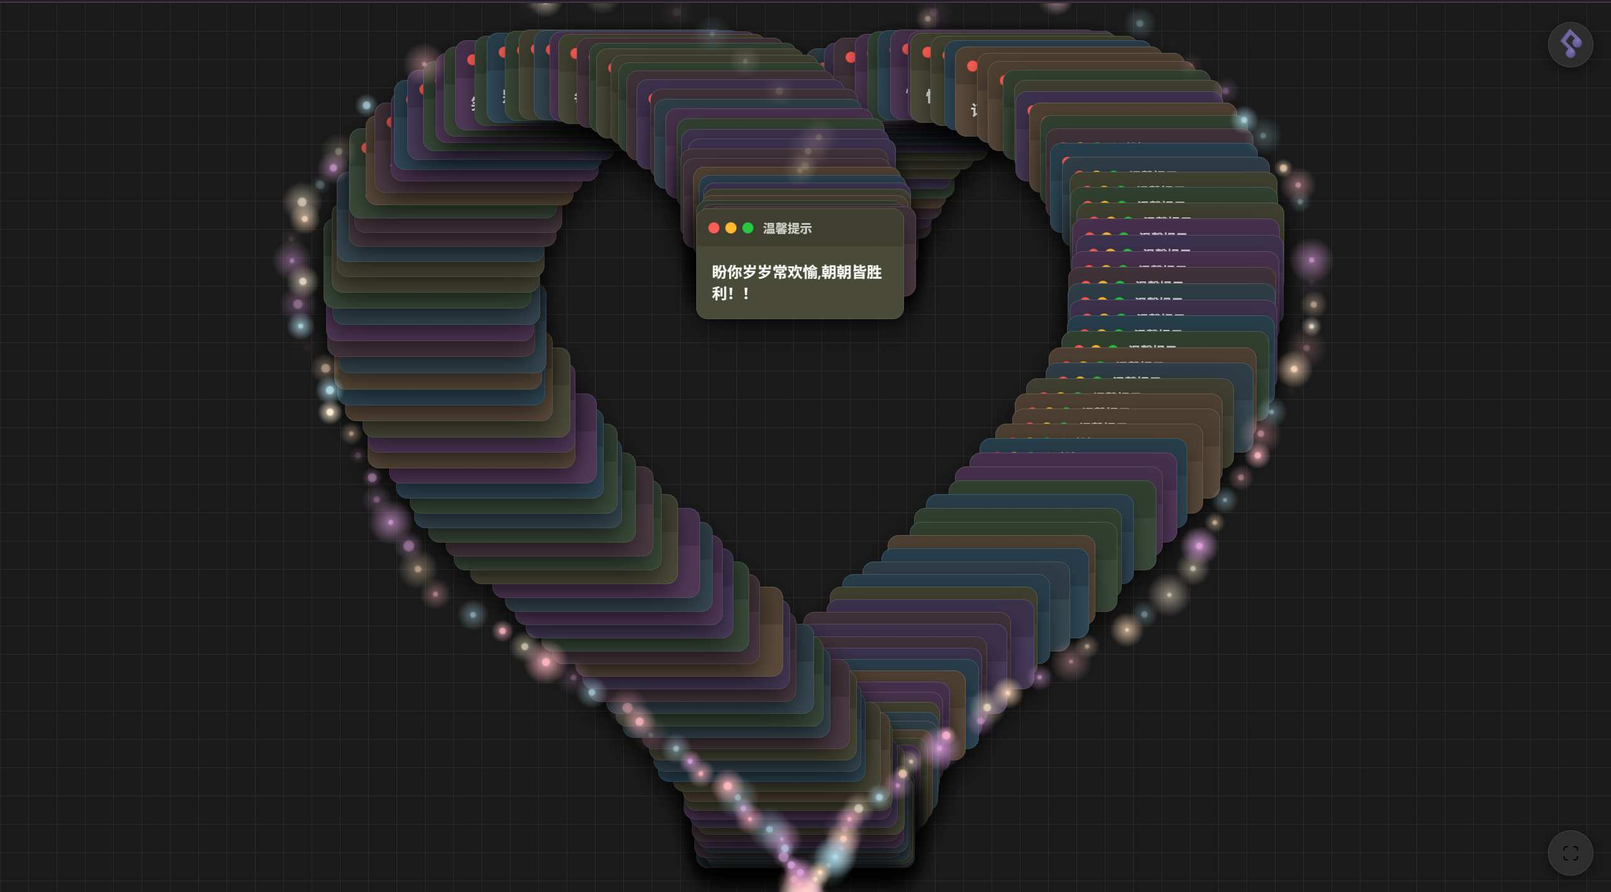
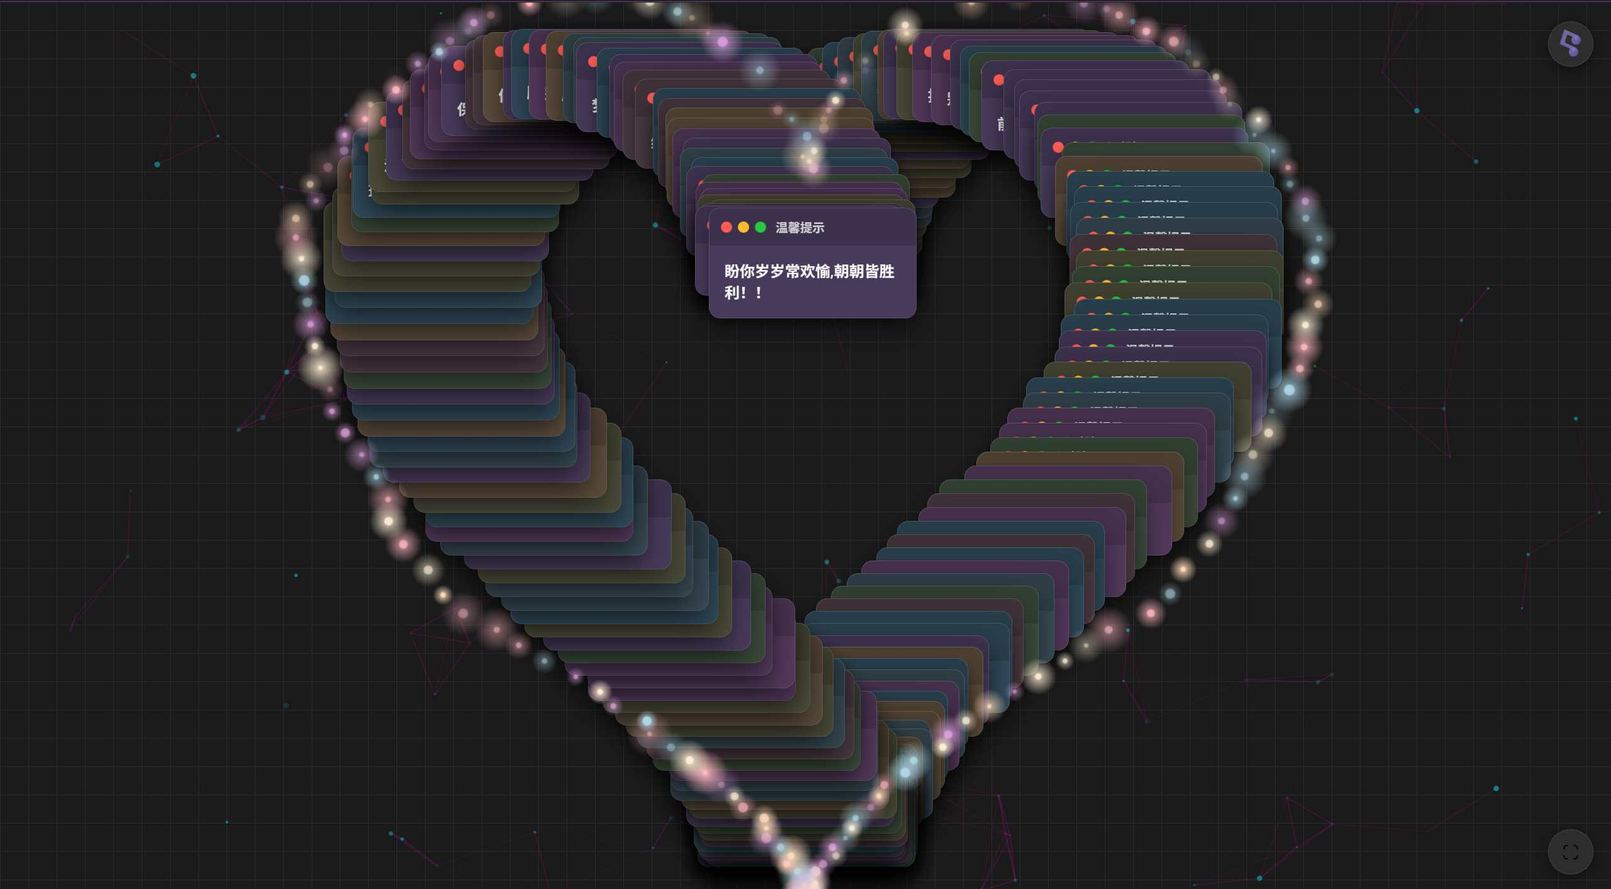
更新

Changed region(s): [[0.1544, 0.0, 0.8335, 1.0], [0.957, 0.0311, 0.9879, 0.0623]]

diff --git a/js/particles.min.js b/js/particles.min.js
@@ -1,0 +1,9 @@
+/* -----------------------------------------------
+/* Author : Vincent Garreau  - vincentgarreau.com
+/* MIT license: http://opensource.org/licenses/MIT
+/* Demo / Generator : vincentgarreau.com/particles.js
+/* GitHub : github.com/VincentGarreau/particles.js
+/* How to use? : Check the GitHub README
+/* v2.0.0
+/* ----------------------------------------------- */
+function hexToRgb(e){var a=/^#?([a-f\d])([a-f\d])([a-f\d])$/i;e=e.replace(a,function(e,a,t,i){return a+a+t+t+i+i});var t=/^#?([a-f\d]{2})([a-f\d]{2})([a-f\d]{2})$/i.exec(e);return t?{r:parseInt(t[1],16),g:parseInt(t[2],16),b:parseInt(t[3],16)}:null}function clamp(e,a,t){return Math.min(Math.max(e,a),t)}function isInArray(e,a){return a.indexOf(e)>-1}var pJS=function(e,a){var t=document.querySelector("#"+e+" > .particles-js-canvas-el");this.pJS={canvas:{el:t,w:t.offsetWidth,h:t.offsetHeight},particles:{number:{value:400,density:{enable:!0,value_area:800}},color:{value:"#fff"},shape:{type:"circle",stroke:{width:0,color:"#ff0000"},polygon:{nb_sides:5},image:{src:"",width:100,height:100}},opacity:{value:1,random:!1,anim:{enable:!1,speed:2,opacity_min:0,sync:!1}},size:{value:20,random:!1,anim:{enable:!1,speed:20,size_min:0,sync:!1}},line_linked:{enable:!0,distance:100,color:"#fff",opacity:1,width:1},move:{enable:!0,speed:2,direction:"none",random:!1,straight:!1,out_mode:"out",bounce:!1,attract:{enable:!1,rotateX:3e3,rotateY:3e3}},array:[]},interactivity:{detect_on:"canvas",events:{onhover:{enable:!0,mode:"grab"},onclick:{enable:!0,mode:"push"},resize:!0},modes:{grab:{distance:100,line_linked:{opacity:1}},bubble:{distance:200,size:80,duration:.4},repulse:{distance:200,duration:.4},push:{particles_nb:4},remove:{particles_nb:2}},mouse:{}},retina_detect:!1,fn:{interact:{},modes:{},vendors:{}},tmp:{}};var i=this.pJS;a&&Object.deepExtend(i,a),i.tmp.obj={size_value:i.particles.size.value,size_anim_speed:i.particles.size.anim.speed,move_speed:i.particles.move.speed,line_linked_distance:i.particles.line_linked.distance,line_linked_width:i.particles.line_linked.width,mode_grab_distance:i.interactivity.modes.grab.distance,mode_bubble_distance:i.interactivity.modes.bubble.distance,mode_bubble_size:i.interactivity.modes.bubble.size,mode_repulse_distance:i.interactivity.modes.repulse.distance},i.fn.retinaInit=function(){i.retina_detect&&window.devicePixelRatio>1?(i.canvas.pxratio=window.devicePixelRatio,i.tmp.retina=!0):(i.canvas.pxratio=1,i.tmp.retina=!1),i.canvas.w=i.canvas.el.offsetWidth*i.canvas.pxratio,i.canvas.h=i.canvas.el.offsetHeight*i.canvas.pxratio,i.particles.size.value=i.tmp.obj.size_value*i.canvas.pxratio,i.particles.size.anim.speed=i.tmp.obj.size_anim_speed*i.canvas.pxratio,i.particles.move.speed=i.tmp.obj.move_speed*i.canvas.pxratio,i.particles.line_linked.distance=i.tmp.obj.line_linked_distance*i.canvas.pxratio,i.interactivity.modes.grab.distance=i.tmp.obj.mode_grab_distance*i.canvas.pxratio,i.interactivity.modes.bubble.distance=i.tmp.obj.mode_bubble_distance*i.canvas.pxratio,i.particles.line_linked.width=i.tmp.obj.line_linked_width*i.canvas.pxratio,i.interactivity.modes.bubble.size=i.tmp.obj.mode_bubble_size*i.canvas.pxratio,i.interactivity.modes.repulse.distance=i.tmp.obj.mode_repulse_distance*i.canvas.pxratio},i.fn.canvasInit=function(){i.canvas.ctx=i.canvas.el.getContext("2d")},i.fn.canvasSize=function(){i.canvas.el.width=i.canvas.w,i.canvas.el.height=i.canvas.h,i&&i.interactivity.events.resize&&window.addEventListener("resize",function(){i.canvas.w=i.canvas.el.offsetWidth,i.canvas.h=i.canvas.el.offsetHeight,i.tmp.retina&&(i.canvas.w*=i.canvas.pxratio,i.canvas.h*=i.canvas.pxratio),i.canvas.el.width=i.canvas.w,i.canvas.el.height=i.canvas.h,i.particles.move.enable||(i.fn.particlesEmpty(),i.fn.particlesCreate(),i.fn.particlesDraw(),i.fn.vendors.densityAutoParticles()),i.fn.vendors.densityAutoParticles()})},i.fn.canvasPaint=function(){i.canvas.ctx.fillRect(0,0,i.canvas.w,i.canvas.h)},i.fn.canvasClear=function(){i.canvas.ctx.clearRect(0,0,i.canvas.w,i.canvas.h)},i.fn.particle=function(e,a,t){if(this.radius=(i.particles.size.random?Math.random():1)*i.particles.size.value,i.particles.size.anim.enable&&(this.size_status=!1,this.vs=i.particles.size.anim.speed/100,i.particles.size.anim.sync||(this.vs=this.vs*Math.random())),this.x=t?t.x:Math.random()*i.canvas.w,this.y=t?t.y:Math.random()*i.canvas.h,this.x>i.canvas.w-2*this.radius?this.x=this.x-this.radius:this.x<2*this.radius&&(this.x=this.x+this.radius),this.y>i.canvas.h-2*this.radius?this.y=this.y-this.radius:this.y<2*this.radius&&(this.y=this.y+this.radius),i.particles.move.bounce&&i.fn.vendors.checkOverlap(this,t),this.color={},"object"==typeof e.value)if(e.value instanceof Array){var s=e.value[Math.floor(Math.random()*i.particles.color.value.length)];this.color.rgb=hexToRgb(s)}else void 0!=e.value.r&&void 0!=e.value.g&&void 0!=e.value.b&&(this.color.rgb={r:e.value.r,g:e.value.g,b:e.value.b}),void 0!=e.value.h&&void 0!=e.value.s&&void 0!=e.value.l&&(this.color.hsl={h:e.value.h,s:e.value.s,l:e.value.l});else"random"==e.value?this.color.rgb={r:Math.floor(256*Math.random())+0,g:Math.floor(256*Math.random())+0,b:Math.floor(256*Math.random())+0}:"string"==typeof e.value&&(this.color=e,this.color.rgb=hexToRgb(this.color.value));this.opacity=(i.particles.opacity.random?Math.random():1)*i.particles.opacity.value,i.particles.opacity.anim.enable&&(this.opacity_status=!1,this.vo=i.particles.opacity.anim.speed/100,i.particles.opacity.anim.sync||(this.vo=this.vo*Math.random()));var n={};switch(i.particles.move.direction){case"top":n={x:0,y:-1};break;case"top-right":n={x:.5,y:-.5};break;case"right":n={x:1,y:-0};break;case"bottom-right":n={x:.5,y:.5};break;case"bottom":n={x:0,y:1};break;case"bottom-left":n={x:-.5,y:1};break;case"left":n={x:-1,y:0};break;case"top-left":n={x:-.5,y:-.5};break;default:n={x:0,y:0}}i.particles.move.straight?(this.vx=n.x,this.vy=n.y,i.particles.move.random&&(this.vx=this.vx*Math.random(),this.vy=this.vy*Math.random())):(this.vx=n.x+Math.random()-.5,this.vy=n.y+Math.random()-.5),this.vx_i=this.vx,this.vy_i=this.vy;var r=i.particles.shape.type;if("object"==typeof r){if(r instanceof Array){var c=r[Math.floor(Math.random()*r.length)];this.shape=c}}else this.shape=r;if("image"==this.shape){var o=i.particles.shape;this.img={src:o.image.src,ratio:o.image.width/o.image.height},this.img.ratio||(this.img.ratio=1),"svg"==i.tmp.img_type&&void 0!=i.tmp.source_svg&&(i.fn.vendors.createSvgImg(this),i.tmp.pushing&&(this.img.loaded=!1))}},i.fn.particle.prototype.draw=function(){function e(){i.canvas.ctx.drawImage(r,a.x-t,a.y-t,2*t,2*t/a.img.ratio)}var a=this;if(void 0!=a.radius_bubble)var t=a.radius_bubble;else var t=a.radius;if(void 0!=a.opacity_bubble)var s=a.opacity_bubble;else var s=a.opacity;if(a.color.rgb)var n="rgba("+a.color.rgb.r+","+a.color.rgb.g+","+a.color.rgb.b+","+s+")";else var n="hsla("+a.color.hsl.h+","+a.color.hsl.s+"%,"+a.color.hsl.l+"%,"+s+")";switch(i.canvas.ctx.fillStyle=n,i.canvas.ctx.beginPath(),a.shape){case"circle":i.canvas.ctx.arc(a.x,a.y,t,0,2*Math.PI,!1);break;case"edge":i.canvas.ctx.rect(a.x-t,a.y-t,2*t,2*t);break;case"triangle":i.fn.vendors.drawShape(i.canvas.ctx,a.x-t,a.y+t/1.66,2*t,3,2);break;case"polygon":i.fn.vendors.drawShape(i.canvas.ctx,a.x-t/(i.particles.shape.polygon.nb_sides/3.5),a.y-t/.76,2.66*t/(i.particles.shape.polygon.nb_sides/3),i.particles.shape.polygon.nb_sides,1);break;case"star":i.fn.vendors.drawShape(i.canvas.ctx,a.x-2*t/(i.particles.shape.polygon.nb_sides/4),a.y-t/1.52,2*t*2.66/(i.particles.shape.polygon.nb_sides/3),i.particles.shape.polygon.nb_sides,2);break;case"image":if("svg"==i.tmp.img_type)var r=a.img.obj;else var r=i.tmp.img_obj;r&&e()}i.canvas.ctx.closePath(),i.particles.shape.stroke.width>0&&(i.canvas.ctx.strokeStyle=i.particles.shape.stroke.color,i.canvas.ctx.lineWidth=i.particles.shape.stroke.width,i.canvas.ctx.stroke()),i.canvas.ctx.fill()},i.fn.particlesCreate=function(){for(var e=0;e<i.particles.number.value;e++)i.particles.array.push(new i.fn.particle(i.particles.color,i.particles.opacity.value))},i.fn.particlesUpdate=function(){for(var e=0;e<i.particles.array.length;e++){var a=i.particles.array[e];if(i.particles.move.enable){var t=i.particles.move.speed/2;a.x+=a.vx*t,a.y+=a.vy*t}if(i.particles.opacity.anim.enable&&(1==a.opacity_status?(a.opacity>=i.particles.opacity.value&&(a.opacity_status=!1),a.opacity+=a.vo):(a.opacity<=i.particles.opacity.anim.opacity_min&&(a.opacity_status=!0),a.opacity-=a.vo),a.opacity<0&&(a.opacity=0)),i.particles.size.anim.enable&&(1==a.size_status?(a.radius>=i.particles.size.value&&(a.size_status=!1),a.radius+=a.vs):(a.radius<=i.particles.size.anim.size_min&&(a.size_status=!0),a.radius-=a.vs),a.radius<0&&(a.radius=0)),"bounce"==i.particles.move.out_mode)var s={x_left:a.radius,x_right:i.canvas.w,y_top:a.radius,y_bottom:i.canvas.h};else var s={x_left:-a.radius,x_right:i.canvas.w+a.radius,y_top:-a.radius,y_bottom:i.canvas.h+a.radius};switch(a.x-a.radius>i.canvas.w?(a.x=s.x_left,a.y=Math.random()*i.canvas.h):a.x+a.radius<0&&(a.x=s.x_right,a.y=Math.random()*i.canvas.h),a.y-a.radius>i.canvas.h?(a.y=s.y_top,a.x=Math.random()*i.canvas.w):a.y+a.radius<0&&(a.y=s.y_bottom,a.x=Math.random()*i.canvas.w),i.particles.move.out_mode){case"bounce":a.x+a.radius>i.canvas.w?a.vx=-a.vx:a.x-a.radius<0&&(a.vx=-a.vx),a.y+a.radius>i.canvas.h?a.vy=-a.vy:a.y-a.radius<0&&(a.vy=-a.vy)}if(isInArray("grab",i.interactivity.events.onhover.mode)&&i.fn.modes.grabParticle(a),(isInArray("bubble",i.interactivity.events.onhover.mode)||isInArray("bubble",i.interactivity.events.onclick.mode))&&i.fn.modes.bubbleParticle(a),(isInArray("repulse",i.interactivity.events.onhover.mode)||isInArray("repulse",i.interactivity.events.onclick.mode))&&i.fn.modes.repulseParticle(a),i.particles.line_linked.enable||i.particles.move.attract.enable)for(var n=e+1;n<i.particles.array.length;n++){var r=i.particles.array[n];i.particles.line_linked.enable&&i.fn.interact.linkParticles(a,r),i.particles.move.attract.enable&&i.fn.interact.attractParticles(a,r),i.particles.move.bounce&&i.fn.interact.bounceParticles(a,r)}}},i.fn.particlesDraw=function(){i.canvas.ctx.clearRect(0,0,i.canvas.w,i.canvas.h),i.fn.particlesUpdate();for(var e=0;e<i.particles.array.length;e++){var a=i.particles.array[e];a.draw()}},i.fn.particlesEmpty=function(){i.particles.array=[]},i.fn.particlesRefresh=function(){cancelRequestAnimFrame(i.fn.checkAnimFrame),cancelRequestAnimFrame(i.fn.drawAnimFrame),i.tmp.source_svg=void 0,i.tmp.img_obj=void 0,i.tmp.count_svg=0,i.fn.particlesEmpty(),i.fn.canvasClear(),i.fn.vendors.start()},i.fn.interact.linkParticles=function(e,a){var t=e.x-a.x,s=e.y-a.y,n=Math.sqrt(t*t+s*s);if(n<=i.particles.line_linked.distance){var r=i.particles.line_linked.opacity-n/(1/i.particles.line_linked.opacity)/i.particles.line_linked.distance;if(r>0){var c=i.particles.line_linked.color_rgb_line;i.canvas.ctx.strokeStyle="rgba("+c.r+","+c.g+","+c.b+","+r+")",i.canvas.ctx.lineWidth=i.particles.line_linked.width,i.canvas.ctx.beginPath(),i.canvas.ctx.moveTo(e.x,e.y),i.canvas.ctx.lineTo(a.x,a.y),i.canvas.ctx.stroke(),i.canvas.ctx.closePath()}}},i.fn.interact.attractParticles=function(e,a){var t=e.x-a.x,s=e.y-a.y,n=Math.sqrt(t*t+s*s);if(n<=i.particles.line_linked.distance){var r=t/(1e3*i.particles.move.attract.rotateX),c=s/(1e3*i.particles.move.attract.rotateY);e.vx-=r,e.vy-=c,a.vx+=r,a.vy+=c}},i.fn.interact.bounceParticles=function(e,a){var t=e.x-a.x,i=e.y-a.y,s=Math.sqrt(t*t+i*i),n=e.radius+a.radius;n>=s&&(e.vx=-e.vx,e.vy=-e.vy,a.vx=-a.vx,a.vy=-a.vy)},i.fn.modes.pushParticles=function(e,a){i.tmp.pushing=!0;for(var t=0;e>t;t++)i.particles.array.push(new i.fn.particle(i.particles.color,i.particles.opacity.value,{x:a?a.pos_x:Math.random()*i.canvas.w,y:a?a.pos_y:Math.random()*i.canvas.h})),t==e-1&&(i.particles.move.enable||i.fn.particlesDraw(),i.tmp.pushing=!1)},i.fn.modes.removeParticles=function(e){i.particles.array.splice(0,e),i.particles.move.enable||i.fn.particlesDraw()},i.fn.modes.bubbleParticle=function(e){function a(){e.opacity_bubble=e.opacity,e.radius_bubble=e.radius}function t(a,t,s,n,c){if(a!=t)if(i.tmp.bubble_duration_end){if(void 0!=s){var o=n-p*(n-a)/i.interactivity.modes.bubble.duration,l=a-o;d=a+l,"size"==c&&(e.radius_bubble=d),"opacity"==c&&(e.opacity_bubble=d)}}else if(r<=i.interactivity.modes.bubble.distance){if(void 0!=s)var v=s;else var v=n;if(v!=a){var d=n-p*(n-a)/i.interactivity.modes.bubble.duration;"size"==c&&(e.radius_bubble=d),"opacity"==c&&(e.opacity_bubble=d)}}else"size"==c&&(e.radius_bubble=void 0),"opacity"==c&&(e.opacity_bubble=void 0)}if(i.interactivity.events.onhover.enable&&isInArray("bubble",i.interactivity.events.onhover.mode)){var s=e.x-i.interactivity.mouse.pos_x,n=e.y-i.interactivity.mouse.pos_y,r=Math.sqrt(s*s+n*n),c=1-r/i.interactivity.modes.bubble.distance;if(r<=i.interactivity.modes.bubble.distance){if(c>=0&&"mousemove"==i.interactivity.status){if(i.interactivity.modes.bubble.size!=i.particles.size.value)if(i.interactivity.modes.bubble.size>i.particles.size.value){var o=e.radius+i.interactivity.modes.bubble.size*c;o>=0&&(e.radius_bubble=o)}else{var l=e.radius-i.interactivity.modes.bubble.size,o=e.radius-l*c;o>0?e.radius_bubble=o:e.radius_bubble=0}if(i.interactivity.modes.bubble.opacity!=i.particles.opacity.value)if(i.interactivity.modes.bubble.opacity>i.particles.opacity.value){var v=i.interactivity.modes.bubble.opacity*c;v>e.opacity&&v<=i.interactivity.modes.bubble.opacity&&(e.opacity_bubble=v)}else{var v=e.opacity-(i.particles.opacity.value-i.interactivity.modes.bubble.opacity)*c;v<e.opacity&&v>=i.interactivity.modes.bubble.opacity&&(e.opacity_bubble=v)}}}else a();"mouseleave"==i.interactivity.status&&a()}else if(i.interactivity.events.onclick.enable&&isInArray("bubble",i.interactivity.events.onclick.mode)){if(i.tmp.bubble_clicking){var s=e.x-i.interactivity.mouse.click_pos_x,n=e.y-i.interactivity.mouse.click_pos_y,r=Math.sqrt(s*s+n*n),p=((new Date).getTime()-i.interactivity.mouse.click_time)/1e3;p>i.interactivity.modes.bubble.duration&&(i.tmp.bubble_duration_end=!0),p>2*i.interactivity.modes.bubble.duration&&(i.tmp.bubble_clicking=!1,i.tmp.bubble_duration_end=!1)}i.tmp.bubble_clicking&&(t(i.interactivity.modes.bubble.size,i.particles.size.value,e.radius_bubble,e.radius,"size"),t(i.interactivity.modes.bubble.opacity,i.particles.opacity.value,e.opacity_bubble,e.opacity,"opacity"))}},i.fn.modes.repulseParticle=function(e){function a(){var a=Math.atan2(d,p);if(e.vx=u*Math.cos(a),e.vy=u*Math.sin(a),"bounce"==i.particles.move.out_mode){var t={x:e.x+e.vx,y:e.y+e.vy};t.x+e.radius>i.canvas.w?e.vx=-e.vx:t.x-e.radius<0&&(e.vx=-e.vx),t.y+e.radius>i.canvas.h?e.vy=-e.vy:t.y-e.radius<0&&(e.vy=-e.vy)}}if(i.interactivity.events.onhover.enable&&isInArray("repulse",i.interactivity.events.onhover.mode)&&"mousemove"==i.interactivity.status){var t=e.x-i.interactivity.mouse.pos_x,s=e.y-i.interactivity.mouse.pos_y,n=Math.sqrt(t*t+s*s),r={x:t/n,y:s/n},c=i.interactivity.modes.repulse.distance,o=100,l=clamp(1/c*(-1*Math.pow(n/c,2)+1)*c*o,0,50),v={x:e.x+r.x*l,y:e.y+r.y*l};"bounce"==i.particles.move.out_mode?(v.x-e.radius>0&&v.x+e.radius<i.canvas.w&&(e.x=v.x),v.y-e.radius>0&&v.y+e.radius<i.canvas.h&&(e.y=v.y)):(e.x=v.x,e.y=v.y)}else if(i.interactivity.events.onclick.enable&&isInArray("repulse",i.interactivity.events.onclick.mode))if(i.tmp.repulse_finish||(i.tmp.repulse_count++,i.tmp.repulse_count==i.particles.array.length&&(i.tmp.repulse_finish=!0)),i.tmp.repulse_clicking){var c=Math.pow(i.interactivity.modes.repulse.distance/6,3),p=i.interactivity.mouse.click_pos_x-e.x,d=i.interactivity.mouse.click_pos_y-e.y,m=p*p+d*d,u=-c/m*1;c>=m&&a()}else 0==i.tmp.repulse_clicking&&(e.vx=e.vx_i,e.vy=e.vy_i)},i.fn.modes.grabParticle=function(e){if(i.interactivity.events.onhover.enable&&"mousemove"==i.interactivity.status){var a=e.x-i.interactivity.mouse.pos_x,t=e.y-i.interactivity.mouse.pos_y,s=Math.sqrt(a*a+t*t);if(s<=i.interactivity.modes.grab.distance){var n=i.interactivity.modes.grab.line_linked.opacity-s/(1/i.interactivity.modes.grab.line_linked.opacity)/i.interactivity.modes.grab.distance;if(n>0){var r=i.particles.line_linked.color_rgb_line;i.canvas.ctx.strokeStyle="rgba("+r.r+","+r.g+","+r.b+","+n+")",i.canvas.ctx.lineWidth=i.particles.line_linked.width,i.canvas.ctx.beginPath(),i.canvas.ctx.moveTo(e.x,e.y),i.canvas.ctx.lineTo(i.interactivity.mouse.pos_x,i.interactivity.mouse.pos_y),i.canvas.ctx.stroke(),i.canvas.ctx.closePath()}}}},i.fn.vendors.eventsListeners=function(){"window"==i.interactivity.detect_on?i.interactivity.el=window:i.interactivity.el=i.canvas.el,(i.interactivity.events.onhover.enable||i.interactivity.events.onclick.enable)&&(i.interactivity.el.addEventListener("mousemove",function(e){if(i.interactivity.el==window)var a=e.clientX,t=e.clientY;else var a=e.offsetX||e.clientX,t=e.offsetY||e.clientY;i.interactivity.mouse.pos_x=a,i.interactivity.mouse.pos_y=t,i.tmp.retina&&(i.interactivity.mouse.pos_x*=i.canvas.pxratio,i.interactivity.mouse.pos_y*=i.canvas.pxratio),i.interactivity.status="mousemove"}),i.interactivity.el.addEventListener("mouseleave",function(e){i.interactivity.mouse.pos_x=null,i.interactivity.mouse.pos_y=null,i.interactivity.status="mouseleave"})),i.interactivity.events.onclick.enable&&i.interactivity.el.addEventListener("click",function(){if(i.interactivity.mouse.click_pos_x=i.interactivity.mouse.pos_x,i.interactivity.mouse.click_pos_y=i.interactivity.mouse.pos_y,i.interactivity.mouse.click_time=(new Date).getTime(),i.interactivity.events.onclick.enable)switch(i.interactivity.events.onclick.mode){case"push":i.particles.move.enable?i.fn.modes.pushParticles(i.interactivity.modes.push.particles_nb,i.interactivity.mouse):1==i.interactivity.modes.push.particles_nb?i.fn.modes.pushParticles(i.interactivity.modes.push.particles_nb,i.interactivity.mouse):i.interactivity.modes.push.particles_nb>1&&i.fn.modes.pushParticles(i.interactivity.modes.push.particles_nb);break;case"remove":i.fn.modes.removeParticles(i.interactivity.modes.remove.particles_nb);break;case"bubble":i.tmp.bubble_clicking=!0;break;case"repulse":i.tmp.repulse_clicking=!0,i.tmp.repulse_count=0,i.tmp.repulse_finish=!1,setTimeout(function(){i.tmp.repulse_clicking=!1},1e3*i.interactivity.modes.repulse.duration)}})},i.fn.vendors.densityAutoParticles=function(){if(i.particles.number.density.enable){var e=i.canvas.el.width*i.canvas.el.height/1e3;i.tmp.retina&&(e/=2*i.canvas.pxratio);var a=e*i.particles.number.value/i.particles.number.density.value_area,t=i.particles.array.length-a;0>t?i.fn.modes.pushParticles(Math.abs(t)):i.fn.modes.removeParticles(t)}},i.fn.vendors.checkOverlap=function(e,a){for(var t=0;t<i.particles.array.length;t++){var s=i.particles.array[t],n=e.x-s.x,r=e.y-s.y,c=Math.sqrt(n*n+r*r);c<=e.radius+s.radius&&(e.x=a?a.x:Math.random()*i.canvas.w,e.y=a?a.y:Math.random()*i.canvas.h,i.fn.vendors.checkOverlap(e))}},i.fn.vendors.createSvgImg=function(e){var a=i.tmp.source_svg,t=/#([0-9A-F]{3,6})/gi,s=a.replace(t,function(a,t,i,s){if(e.color.rgb)var n="rgba("+e.color.rgb.r+","+e.color.rgb.g+","+e.color.rgb.b+","+e.opacity+")";else var n="hsla("+e.color.hsl.h+","+e.color.hsl.s+"%,"+e.color.hsl.l+"%,"+e.opacity+")";return n}),n=new Blob([s],{type:"image/svg+xml;charset=utf-8"}),r=window.URL||window.webkitURL||window,c=r.createObjectURL(n),o=new Image;o.addEventListener("load",function(){e.img.obj=o,e.img.loaded=!0,r.revokeObjectURL(c),i.tmp.count_svg++}),o.src=c},i.fn.vendors.destroypJS=function(){cancelAnimationFrame(i.fn.drawAnimFrame),t.remove(),pJSDom=null},i.fn.vendors.drawShape=function(e,a,t,i,s,n){var r=s*n,c=s/n,o=180*(c-2)/c,l=Math.PI-Math.PI*o/180;e.save(),e.beginPath(),e.translate(a,t),e.moveTo(0,0);for(var v=0;r>v;v++)e.lineTo(i,0),e.translate(i,0),e.rotate(l);e.fill(),e.restore()},i.fn.vendors.exportImg=function(){window.open(i.canvas.el.toDataURL("image/png"),"_blank")},i.fn.vendors.loadImg=function(e){if(i.tmp.img_error=void 0,""!=i.particles.shape.image.src)if("svg"==e){var a=new XMLHttpRequest;a.open("GET",i.particles.shape.image.src),a.onreadystatechange=function(e){4==a.readyState&&(200==a.status?(i.tmp.source_svg=e.currentTarget.response,i.fn.vendors.checkBeforeDraw()):(console.log("Error pJS - Image not found"),i.tmp.img_error=!0))},a.send()}else{var t=new Image;t.addEventListener("load",function(){i.tmp.img_obj=t,i.fn.vendors.checkBeforeDraw()}),t.src=i.particles.shape.image.src}else console.log("Error pJS - No image.src"),i.tmp.img_error=!0},i.fn.vendors.draw=function(){"image"==i.particles.shape.type?"svg"==i.tmp.img_type?i.tmp.count_svg>=i.particles.number.value?(i.fn.particlesDraw(),i.particles.move.enable?i.fn.drawAnimFrame=requestAnimFrame(i.fn.vendors.draw):cancelRequestAnimFrame(i.fn.drawAnimFrame)):i.tmp.img_error||(i.fn.drawAnimFrame=requestAnimFrame(i.fn.vendors.draw)):void 0!=i.tmp.img_obj?(i.fn.particlesDraw(),i.particles.move.enable?i.fn.drawAnimFrame=requestAnimFrame(i.fn.vendors.draw):cancelRequestAnimFrame(i.fn.drawAnimFrame)):i.tmp.img_error||(i.fn.drawAnimFrame=requestAnimFrame(i.fn.vendors.draw)):(i.fn.particlesDraw(),i.particles.move.enable?i.fn.drawAnimFrame=requestAnimFrame(i.fn.vendors.draw):cancelRequestAnimFrame(i.fn.drawAnimFrame))},i.fn.vendors.checkBeforeDraw=function(){"image"==i.particles.shape.type?"svg"==i.tmp.img_type&&void 0==i.tmp.source_svg?i.tmp.checkAnimFrame=requestAnimFrame(check):(cancelRequestAnimFrame(i.tmp.checkAnimFrame),i.tmp.img_error||(i.fn.vendors.init(),i.fn.vendors.draw())):(i.fn.vendors.init(),i.fn.vendors.draw())},i.fn.vendors.init=function(){i.fn.retinaInit(),i.fn.canvasInit(),i.fn.canvasSize(),i.fn.canvasPaint(),i.fn.particlesCreate(),i.fn.vendors.densityAutoParticles(),i.particles.line_linked.color_rgb_line=hexToRgb(i.particles.line_linked.color)},i.fn.vendors.start=function(){isInArray("image",i.particles.shape.type)?(i.tmp.img_type=i.particles.shape.image.src.substr(i.particles.shape.image.src.length-3),i.fn.vendors.loadImg(i.tmp.img_type)):i.fn.vendors.checkBeforeDraw()},i.fn.vendors.eventsListeners(),i.fn.vendors.start()};Object.deepExtend=function(e,a){for(var t in a)a[t]&&a[t].constructor&&a[t].constructor===Object?(e[t]=e[t]||{},arguments.callee(e[t],a[t])):e[t]=a[t];return e},window.requestAnimFrame=function(){return window.requestAnimationFrame||window.webkitRequestAnimationFrame||window.mozRequestAnimationFrame||window.oRequestAnimationFrame||window.msRequestAnimationFrame||function(e){window.setTimeout(e,1e3/60)}}(),window.cancelRequestAnimFrame=function(){return window.cancelAnimationFrame||window.webkitCancelRequestAnimationFrame||window.mozCancelRequestAnimationFrame||window.oCancelRequestAnimationFrame||window.msCancelRequestAnimationFrame||clearTimeout}(),window.pJSDom=[],window.particlesJS=function(e,a){"string"!=typeof e&&(a=e,e="particles-js"),e||(e="particles-js");var t=document.getElementById(e),i="particles-js-canvas-el",s=t.getElementsByClassName(i);if(s.length)for(;s.length>0;)t.removeChild(s[0]);var n=document.createElement("canvas");n.className=i,n.style.width="100%",n.style.height="100%";var r=document.getElementById(e).appendChild(n);null!=r&&pJSDom.push(new pJS(e,a))},window.particlesJS.load=function(e,a,t){var i=new XMLHttpRequest;i.open("GET",a),i.onreadystatechange=function(a){if(4==i.readyState)if(200==i.status){var s=JSON.parse(a.currentTarget.response);window.particlesJS(e,s),t&&t()}else console.log("Error pJS - XMLHttpRequest status: "+i.status),console.log("Error pJS - File config not found")},i.send()};

diff --git a/js/particles-config.js b/js/particles-config.js
@@ -1,0 +1,38 @@
+particlesJS('particles-js', {
+    particles: {
+        number: { value: 80, density: { enable: true, value_area: 800 } },
+        color: { value: '#00f2ff' },
+        shape: { type: 'circle' },
+        opacity: { value: 0.5, random: true },
+        size: { value: 3, random: true },
+        line_linked: {
+            enable: true,
+            distance: 150,
+            color: '#ff00c1',
+            opacity: 0.3,
+            width: 1
+        },
+        move: {
+            enable: true,
+            speed: 2,
+            direction: 'none',
+            random: true,
+            straight: false,
+            out_mode: 'out',
+            bounce: false
+        }
+    },
+    interactivity: {
+        detect_on: 'canvas',
+        events: {
+            onhover: { enable: true, mode: 'grab' },
+            onclick: { enable: true, mode: 'push' },
+            resize: true
+        },
+        modes: {
+            grab: { distance: 140, line_linked: { opacity: 0.5 } },
+            push: { particles_nb: 4 }
+        }
+    },
+    retina_detect: true
+});

diff --git a/index.html b/index.html
@@ -12,6 +12,7 @@
 		<button class="fullscreen-toggle" id="fullscreenToggle" type="button" aria-label="切换全屏">
 			<span class="fullscreen-toggle-icon">⛶</span>
 		</button>
+		<div id="particles-js" style="position: fixed; top: 0; left: 0; width: 100%; height: 100%; z-index: 10; pointer-events: none;"></div>
 
 		<!-- 引导页 -->
 		<div id="welcomePage" class="welcome-page">
@@ -59,5 +60,7 @@
 		</div>
 		<noscript>需要启用 JavaScript 才能使用便签墙。</noscript>
 		<script type="module" src="js/app.js"></script>
+		<script type="module" src="js/particles-config.js"></script>
+		<script src="js/particles.min.js"></script>
 	</body>
 </html>
